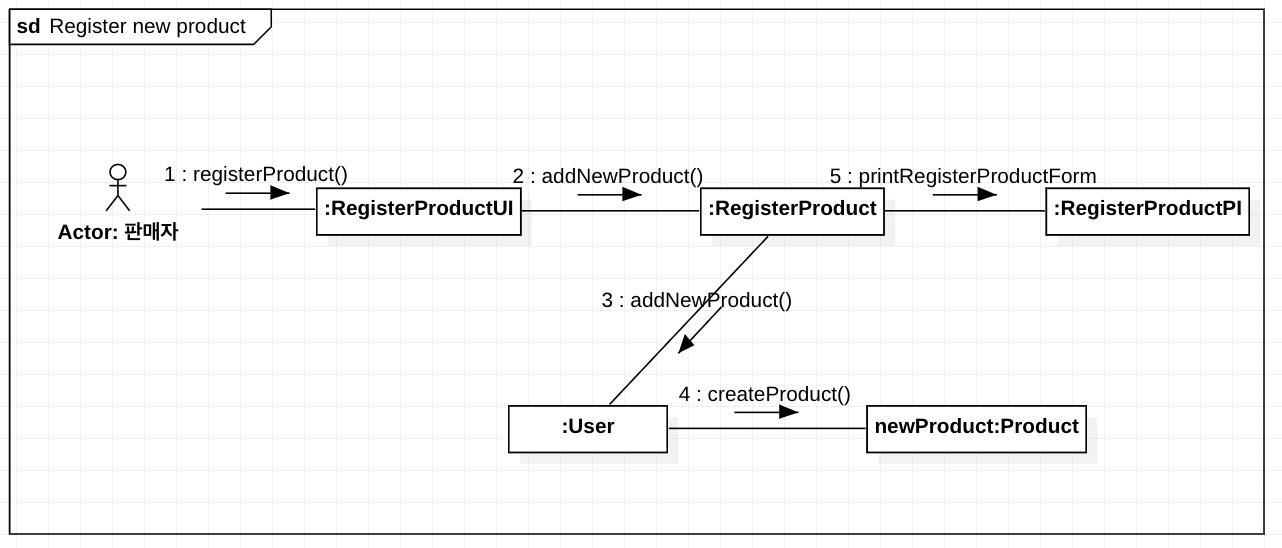
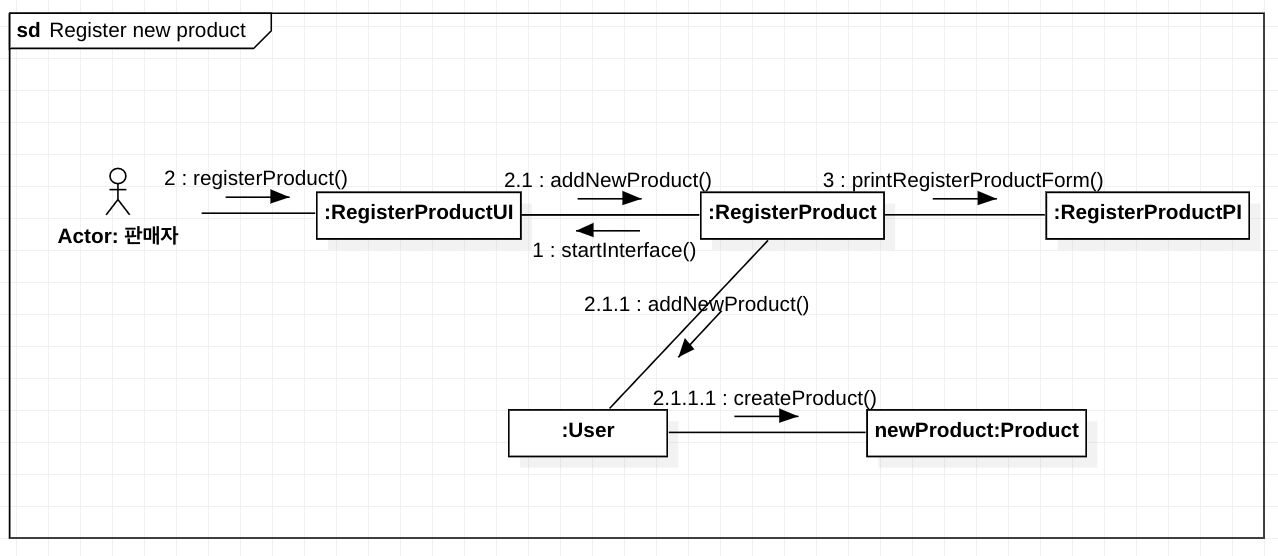
판매 의류 등록 communication diagram, use case class diagram 수정

diff --git a/seonghee/hw2/register_product/README.md b/seonghee/hw2/register_product/README.md
@@ -7,9 +7,9 @@
 |1. 판매자는 상품명, 제작회사명, 가격, 수량 정보를 입력하여 의류 상품을 등록한다.|2. '상품 등록이 완료되었습니다.'라는 메시지를 출력한다.|
 
 ## 📌 Communication Diagram
-<img width="641" alt="register_product_communication_diagram" src="https://user-images.githubusercontent.com/87361140/168300979-6d33b1f9-dbcb-4081-a05f-60adea2ad2b3.png">
-
+<img width="639" alt="register_product_communication_diagram" src="https://user-images.githubusercontent.com/87361140/168935969-9821bddd-4ce6-4bc3-b725-99a8909a5473.png">
 
 ## 📌 Use Case Class Diagram
-<img width="590" alt="register_product_class_diagram" src="https://user-images.githubusercontent.com/87361140/168301210-0f16f6a0-9aa4-454b-ab6e-24334e2dc3a0.png">
+<img width="607" alt="register_product_class_diagram" src="https://user-images.githubusercontent.com/87361140/168935806-ded9f720-7369-48c5-b1ae-7aa53f4b8199.png">
+
 
